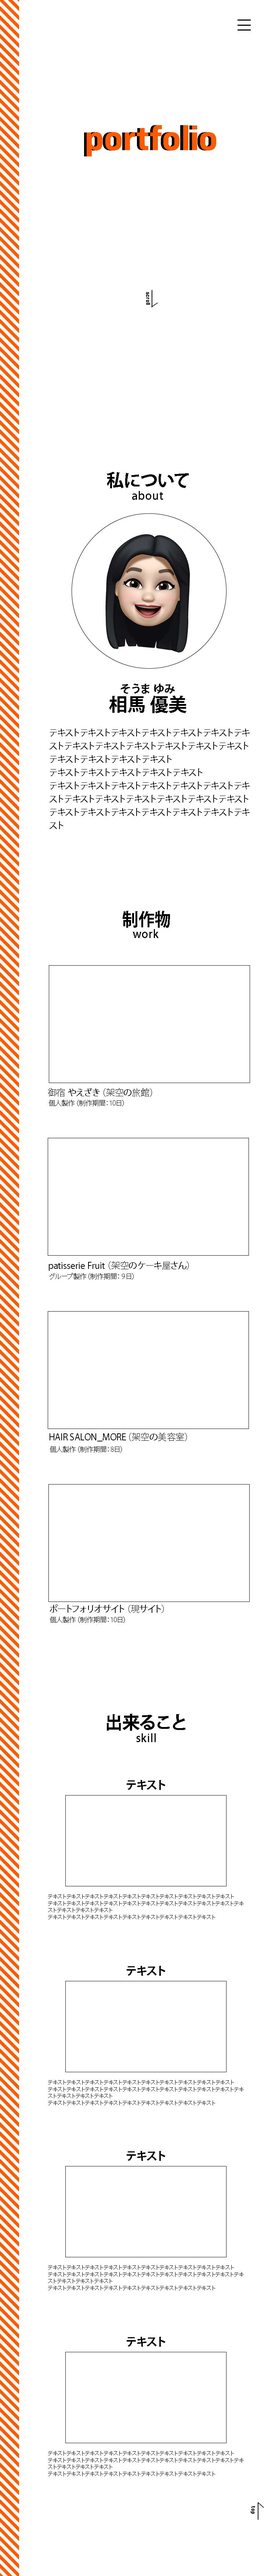
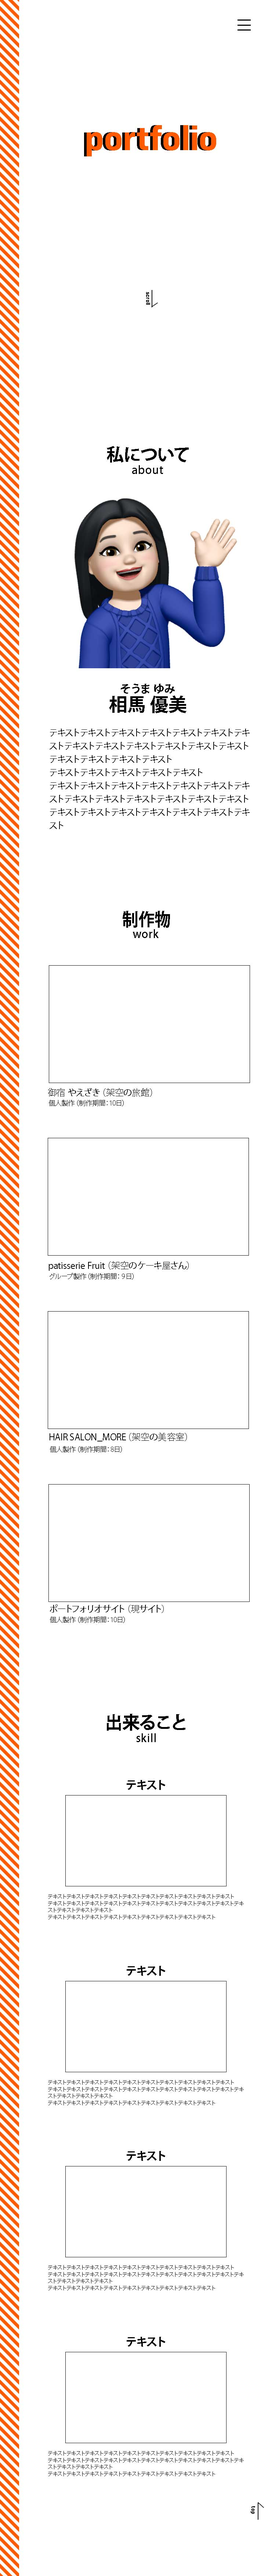
修正
自画像修正

Changed region(s): [[0.2724, 0.1557, 0.8474, 0.2803]]

diff --git a/assets/css/common.css b/assets/css/common.css
@@ -351,16 +351,16 @@ main .scroll:after {
 
 /* 自己紹介＿自画像 */
 #profile .introduction .faceimg {
-  height: 100%;
+  /* height: 100%;
   border: 1px solid;
   border-radius: 50%;
-  padding: 35px 80px;
+  padding: 35px 80px; */
   margin: auto 0;
 }
 
 #profile .introduction .faceimg img {
-  width: 210px;
-  height: 300px;
+  /* width: 210px;
+  height: 300px; */
 }
 
 /* 自己紹介＿テキスト */
@@ -580,11 +580,6 @@ main .arrival:after {
   #profile .introduction .faceimg {
     margin-bottom: 5%;
     padding: 20px 60px;
-  }
-
-  #profile .introduction .faceimg img {
-    width: 130px;
-    height: 190px;
   }
 
   /* 自己紹介_文章 */

diff --git a/index.html b/index.html
@@ -70,7 +70,7 @@
       <!-- 自己紹介内容 -->
       <div class="introduction ds_f">
         <!-- 自画像 -->
-        <p class="faceimg"><img src="assets/images/top/me.png" alt="自画像"></p>
+        <p class="faceimg"><img src="assets/images/top/i.png" alt="自画像"></p>
 
         <!-- 自己紹介・文章部分 -->
         <div class="prof_text">
